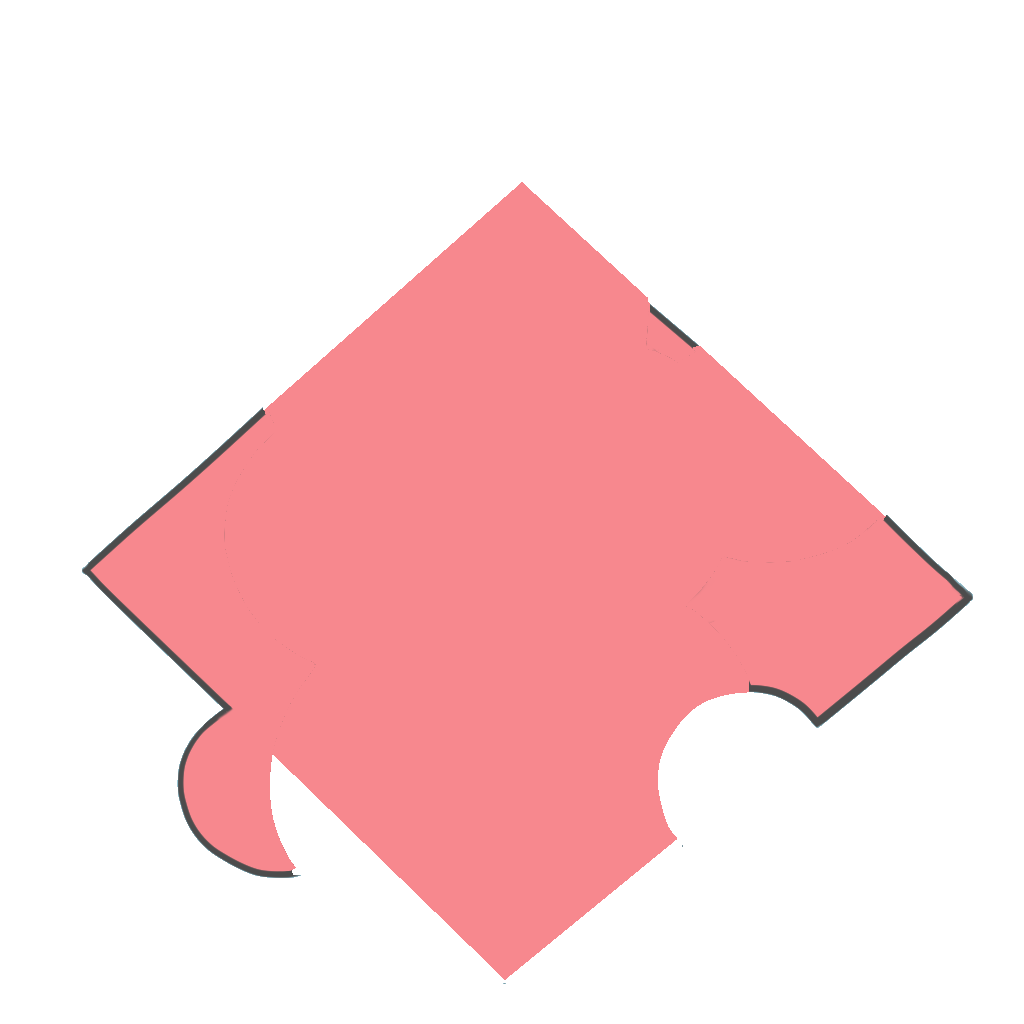
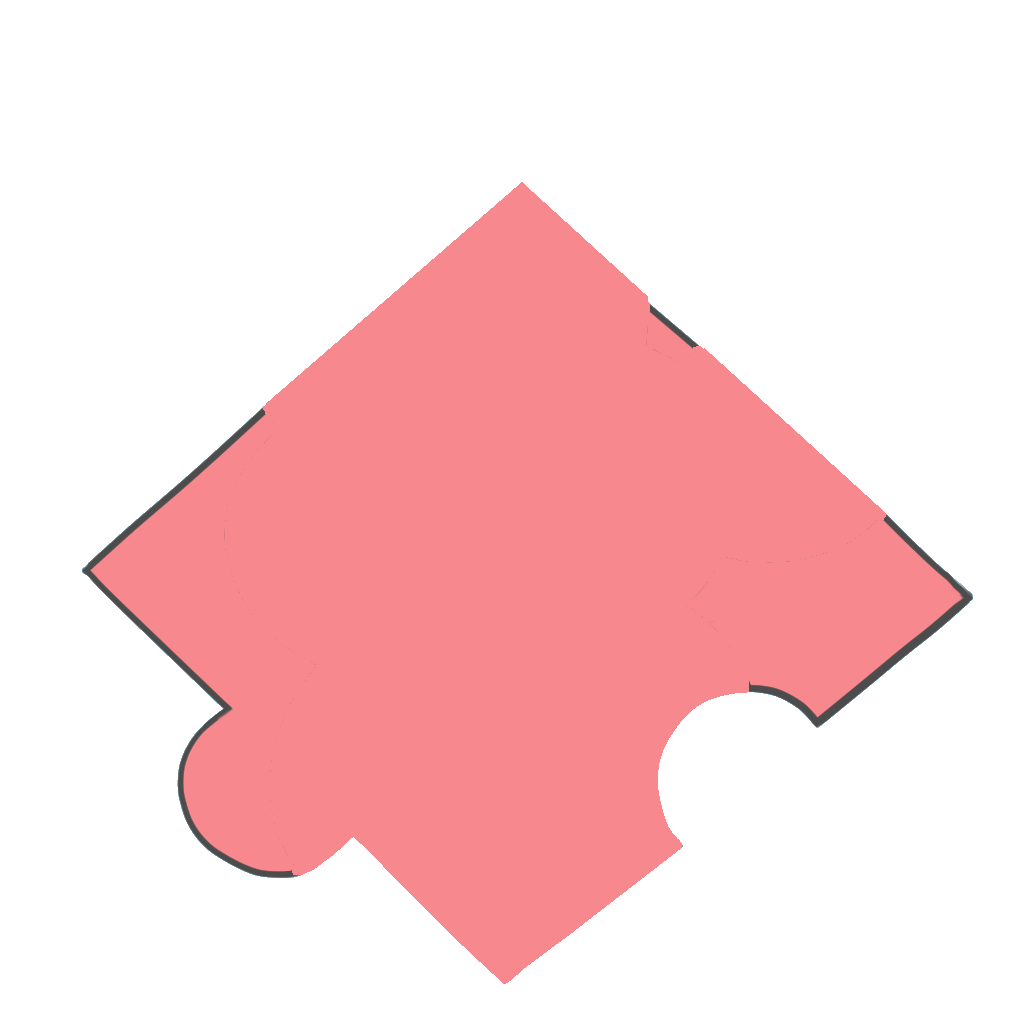
[fix] 隠れたピースを、ひし形と見えているピースの凸包で描き足し、重ね直しの判定を汚れの画素ごとに見る

diff --git a/scripts/make-app-icon-layers.swift b/scripts/make-app-icon-layers.swift
@@ -7,14 +7,16 @@
 //
 //  - 背景（水色）は画像にせず、.icon の icon.json の塗り（fill）で表す。塗りの色は実行したときに表示する
 //  - piece.png … パズルのピース（赤い面と線）。キャラクターに隠れている部分は、見えている 4 辺を延ばした
-//    ひし形（pieceCorners）で推測し、ピースの赤で塗る（キャラクターの下だけに描き足すので、重ねたときの見た目は変わらない）
+//    ひし形（pieceCorners）と見えているピースを囲む凸包で推測し、ピースの赤で塗る
+//    （キャラクターの下だけに描き足すので、重ねたときの見た目は変わらない）
 //  - character.png … キャラクター（白い体・顔・腕・黄色い枠のカード・それらの線）
 //
 //  切り分け方:
 //  1. 画像の縁から、背景の色に近い画素を塗りつぶして背景を決める。残りが前景（ピースとキャラクター）
 //  2. 画像の縁から、明るい画素（白・灰色・黄色）以外を塗りつぶす。届かなかった画素がキャラクターの面（線に囲まれた内側）
 //  3. キャラクターの面から outlineReach 画素以内の、背景・ピースの赤でない前景の画素（キャラクターの線）をキャラクターに足す
-//  4. 前景のうちキャラクターでない画素がピース。ひし形の内側でキャラクターに隠れた画素を赤で塗る
+//  4. 前景のうちキャラクターでない画素がピース。ひし形と見えているピースの凸包の内側で、キャラクターに隠れた画素を赤で塗る
+//     （凸包にするのは、左下の出っ張りの付け根のように、ひし形の外でキャラクターに隠れた部分も塗るため）
 //
 //  最後に、塗りの色の上に piece.png・character.png を重ね直し、元の絵との差を表示する（背景の汚れのほかに大きく違う画素があれば止まる）。
 //  `--composite <パス>` を付けると、重ね直した画像をそのパスに書き出す（確かめ用。コミットしない）。
@@ -23,6 +25,16 @@
 //
 
 import AppKit
+
+let arguments = CommandLine.arguments
+var compositePath: String?
+if let index = arguments.firstIndex(of: "--composite") {
+    guard index + 1 < arguments.count else {
+        fputs("使い方: swift scripts/make-app-icon-layers.swift [--composite <書き出すパス>]\n", stderr)
+        exit(1)
+    }
+    compositePath = arguments[index + 1]
+}
 
 let sourcePath = "demomoni-remake-ios/Assets.xcassets/AppIcon.appiconset/demomoni-AppIcon.png"
 let outputDirectory = "docs/app-icon/layers"
@@ -183,6 +195,27 @@ func components(of mask: [Bool]) -> [[Int]] {
     return result
 }
 
+/// 点を囲む凸包（Andrew の monotone chain。時計回りか反時計回りの頂点の並び）
+func convexHull(_ points: [CGPoint]) -> [CGPoint] {
+    let sorted = points.sorted { ($0.x, $0.y) < ($1.x, $1.y) }
+    func cross(_ origin: CGPoint, _ first: CGPoint, _ second: CGPoint) -> CGFloat {
+        (first.x - origin.x) * (second.y - origin.y) - (first.y - origin.y) * (second.x - origin.x)
+    }
+    func chain(_ points: [CGPoint]) -> [CGPoint] {
+        var result: [CGPoint] = []
+        for point in points {
+            while result.count >= 2 && cross(result[result.count - 2], result[result.count - 1], point) <= 0 {
+                result.removeLast()
+            }
+            result.append(point)
+        }
+        return result
+    }
+    let lower = chain(sorted)
+    let upper = chain(sorted.reversed())
+    return Array(lower.dropLast() + upper.dropLast())
+}
+
 /// 多角形の内側か（偶奇規則）
 func contains(_ polygon: [CGPoint], _ point: CGPoint) -> Bool {
     var inside = false
@@ -207,13 +240,14 @@ let isPieceColor = (0..<count).map { source.rgb($0).difference(pieceColor) < col
 
 // 1. 背景と前景
 var isForeground = floodFromEdges(isBackgroundColor).map { !$0 }
-var speckPixels = 0
+var isSpeck = [Bool](repeating: false, count: count)
 for component in components(of: isForeground) where component.count < speckArea {
-    speckPixels += component.count
     for index in component {
         isForeground[index] = false
+        isSpeck[index] = true
     }
 }
+let speckPixels = isSpeck.filter { $0 }.count
 
 // 2. キャラクターの面（白・灰色・黄色の明るい画素に囲まれた内側）
 let isLight = (0..<count).map { index in
@@ -249,7 +283,14 @@ while head < queue.count {
     }
 }
 
-// 4. 層の画像
+// 4. 層の画像。描き足す範囲は、ひし形の 4 隅と見えているピースの画素の角を囲む凸包
+var hullPoints = pieceCorners
+for index in 0..<count where isForeground[index] && !isCharacter[index] {
+    let x = CGFloat(index % size)
+    let y = CGFloat(index / size)
+    hullPoints += [CGPoint(x: x, y: y), CGPoint(x: x + 1, y: y), CGPoint(x: x, y: y + 1), CGPoint(x: x + 1, y: y + 1)]
+}
+let pieceOutline = convexHull(hullPoints)
 var piece = Bitmap(width: size, height: size)
 var character = Bitmap(width: size, height: size)
 var filledPixels = 0
@@ -258,7 +299,7 @@ for index in 0..<count where isForeground[index] {
     if isCharacter[index] {
         character.set(index, color)
         let point = CGPoint(x: Double(index % size) + 0.5, y: Double(index / size) + 0.5)
-        if contains(pieceCorners, point) {
+        if contains(pieceOutline, point) {
             piece.set(index, pieceColor)
             filledPixels += 1
         }
@@ -283,7 +324,9 @@ print(String(
 
 // 5. 塗りの上に piece → character の順で重ね直し、元の絵と比べる（層は不透明か透明の 2 値なので、上の層の画素で置き換える）
 var composite = Bitmap(width: size, height: size)
-var differences: [Int] = []
+var changed = 0
+/// 色の差（RGB の差の絶対値の和）が colorTolerance 以上で、背景の汚れとして消した画素でないもの
+var unexpected = 0
 for index in 0..<count {
     let color: RGB
     if character.pixels[index * 4 + 3] > 0 {
@@ -295,17 +338,21 @@ for index in 0..<count {
     }
     composite.set(index, color)
     let original = source.rgb(index)
-    differences.append(max(abs(color.red - original.red), abs(color.green - original.green), abs(color.blue - original.blue)))
+    let difference = color.difference(original)
+    if difference > 0 {
+        changed += 1
+    }
+    if difference >= colorTolerance && !isSpeck[index] {
+        unexpected += 1
+    }
 }
-let changed = differences.filter { $0 > 0 }.count
-let large = differences.filter { $0 > colorTolerance }.count
-print("重ね直した絵と元の絵の差: 違う画素 \(changed) / \(count)・差が \(colorTolerance) を超える画素 \(large)（背景の汚れとして消した画素 \(speckPixels)）")
-if let index = CommandLine.arguments.firstIndex(of: "--composite"), index + 1 < CommandLine.arguments.count {
-    composite.writePNG(to: CommandLine.arguments[index + 1])
-    print("wrote: \(CommandLine.arguments[index + 1])（重ね直した絵）")
+print("重ね直した絵と元の絵の差: 違う画素 \(changed) / \(count)・背景の汚れ（\(speckPixels) 画素）のほかに色の差が \(colorTolerance) 以上の画素 \(unexpected)")
+if let compositePath {
+    composite.writePNG(to: compositePath)
+    print("wrote: \(compositePath)（重ね直した絵）")
 }
 // 大きく違ってよいのは、背景の汚れとして消した画素だけ
-if large > speckPixels {
+if unexpected > 0 {
     fputs("重ね直した絵が元の絵と大きく違う\n", stderr)
     exit(1)
 }
